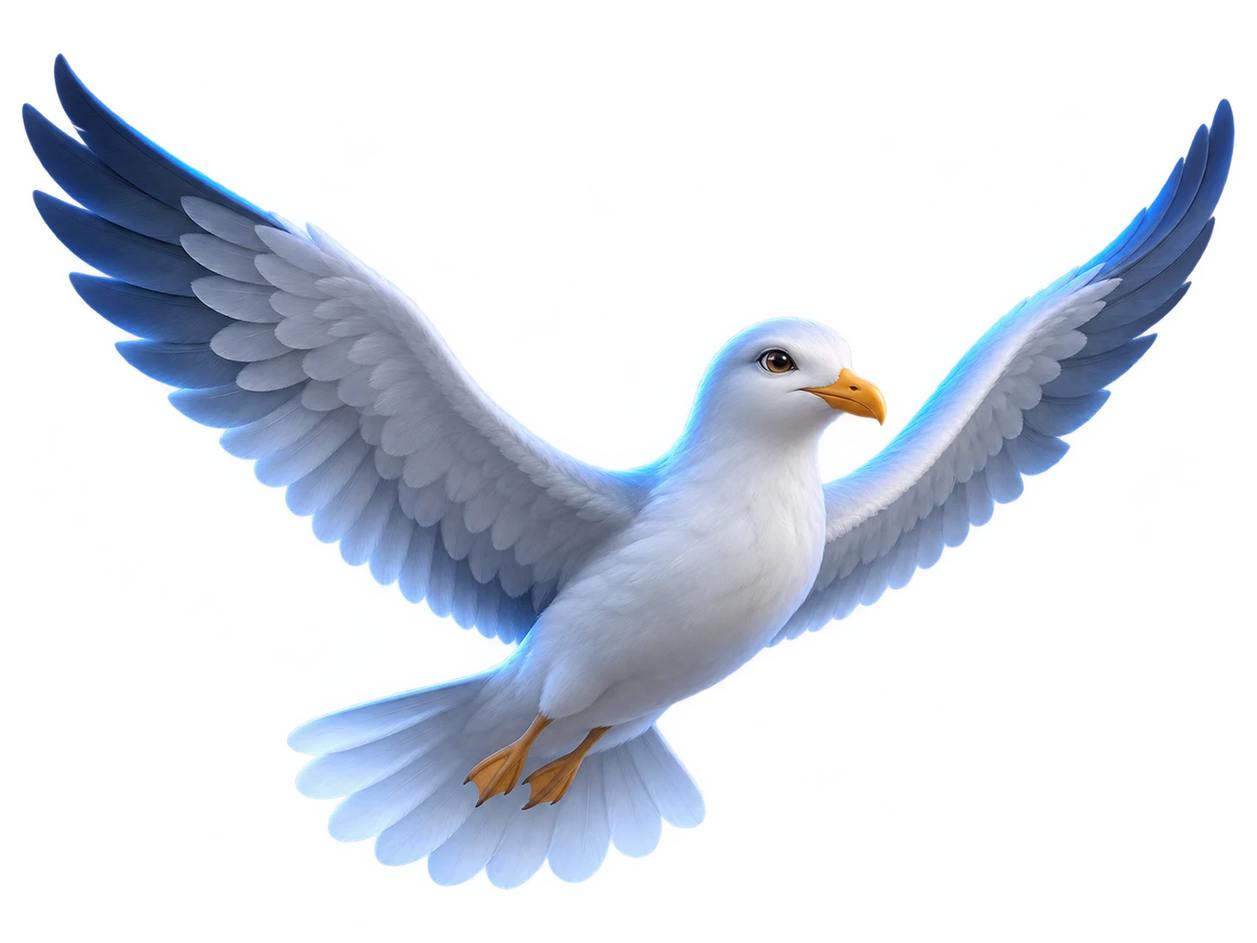
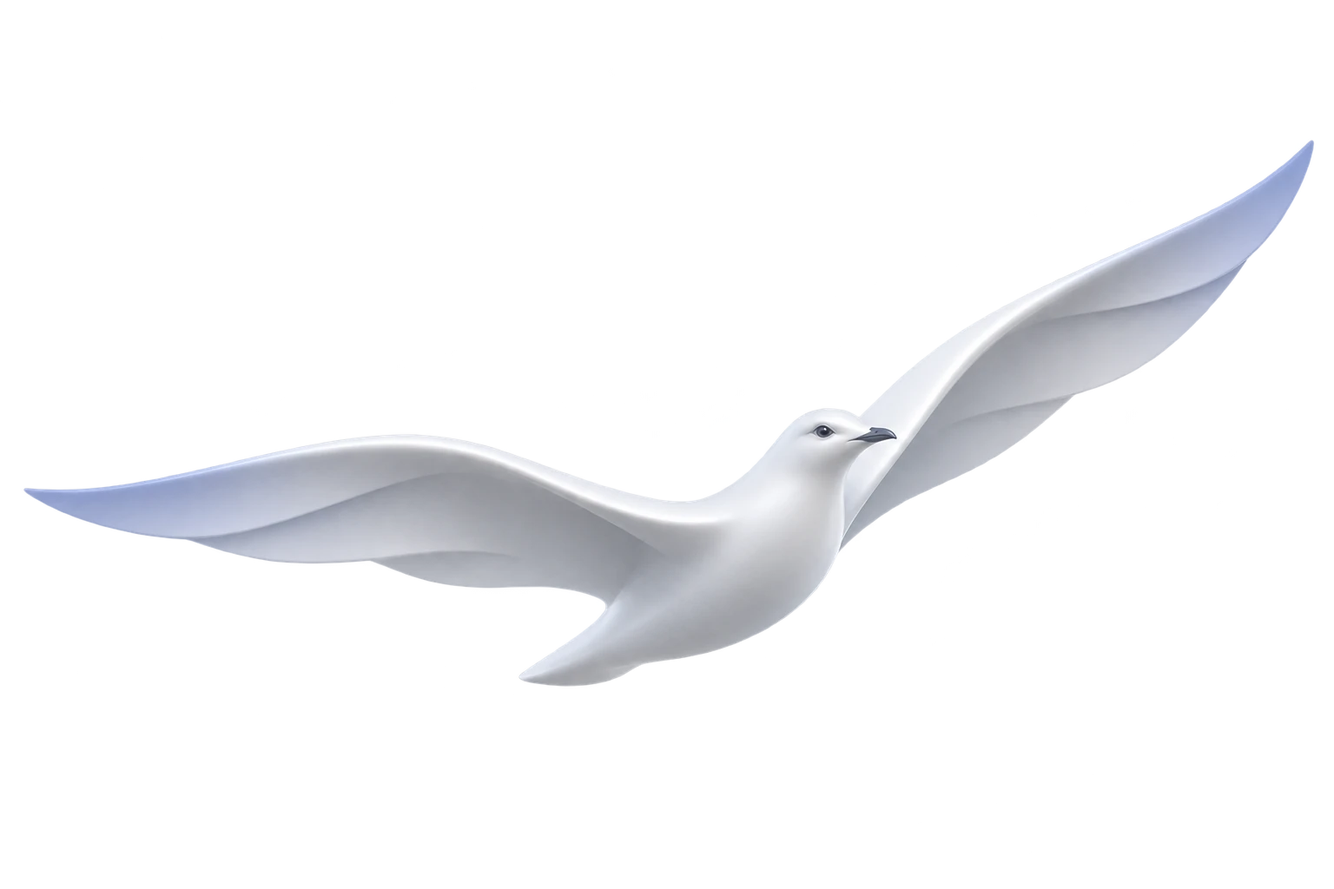
Correct Kaliningrad date and refine seagull and home case palette

Changed region(s): [[0.0, 0.0625, 0.9945, 0.9375]]

diff --git a/public/learning.html b/public/learning.html
@@ -11,8 +11,8 @@
   <link rel="stylesheet" href="./navigation.css?v=afisha-20261106">
   <link rel="stylesheet" href="./learning.css?v=transformation-20261111">
   <link rel="stylesheet" href="./catalog-theme.css?v=compact-cards-20261110">
-  <link rel="stylesheet" href="./dark.css?v=transformation-20261111">
-  <script type="module" src="./app.js?v=transformation-20261111"></script>
+  <link rel="stylesheet" href="./dark.css?v=palette-gull-20261111">
+  <script type="module" src="./app.js?v=palette-gull-20261111"></script>
 </head>
 <body data-page="learning">
   <header class="header" data-menu-open="false"><div class="container header-inner">
@@ -23,7 +23,7 @@
     </div>
     <nav class="main-navigation" id="site-navigation" aria-label="Основная навигация" aria-hidden="true" inert><a href="./index.html" class="nav-link" data-page="home">Главная</a><a href="./events.html" class="nav-link" data-page="events">Мероприятия</a><a href="./cases.html" class="nav-link" data-page="cases">Кейсы</a><a href="./partners.html" class="nav-link" data-page="partners">Партнёры</a><a href="./learning.html" class="nav-link active" data-page="learning" aria-current="page">Обучение CSM</a><a href="./index.html#about" class="nav-link" data-page="about">Об управлении</a></nav>
   </div></header>
-  <main id="main-content"><section class="catalog-hero" aria-labelledby="page-title"><svg class="catalog-curve" viewBox="0 -80 1440 520" preserveAspectRatio="xMidYMid slice" aria-hidden="true" focusable="false"><defs><path id="learning-curve-path" d="M-240 200C50-40 260 30 455 200S845 410 1110 180 1470 0 1740 180"/></defs><use href="#learning-curve-path" fill="none" stroke-width="46"/><text><textPath href="#learning-curve-path" startOffset="0%">ЛЮДИ · ТЕХНОЛОГИИ · ВОЗМОЖНОСТИ · ЦИФРОВОЙ СЕВЕРО-ЗАПАД · ЛЮДИ · ТЕХНОЛОГИИ · ВОЗМОЖНОСТИ · ЦИФРОВОЙ СЕВЕРО-ЗАПАД · ЛЮДИ · ТЕХНОЛОГИИ · ВОЗМОЖНОСТИ · ЦИФРОВОЙ СЕВЕРО-ЗАПАД · ЛЮДИ · ТЕХНОЛОГИИ · ВОЗМОЖНОСТИ · ЦИФРОВОЙ СЕВЕРО-ЗАПАД · ЛЮДИ · ТЕХНОЛОГИИ · ВОЗМОЖНОСТИ · ЦИФРОВОЙ СЕВЕРО-ЗАПАД · ЛЮДИ · ТЕХНОЛОГИИ · ВОЗМОЖНОСТИ · ЦИФРОВОЙ СЕВЕРО-ЗАПАД · ЛЮДИ · ТЕХНОЛОГИИ · ВОЗМОЖНОСТИ · ЦИФРОВОЙ СЕВЕРО-ЗАПАД · <animate attributeName="startOffset" from="0%" to="-25%" dur="50s" repeatCount="indefinite"/></textPath></text></svg><img class="seagull-section" src="./assets/seagull.webp" alt="" width="1440" height="1080" aria-hidden="true"><div class="page-heading container"><div><div class="breadcrumbs"><a href="./index.html">DTaaS Северо-Запад</a><span>/</span><span>Обучение CSM</span></div><h1 id="page-title">Обучение CSM</h1><p>Знания, которые превращают интерес к ИИ в измеримый результат клиента.</p></div></div></section>
+  <main id="main-content"><section class="catalog-hero" aria-labelledby="page-title"><svg class="catalog-curve" viewBox="0 -80 1440 520" preserveAspectRatio="xMidYMid slice" aria-hidden="true" focusable="false"><defs><path id="learning-curve-path" d="M-240 200C50-40 260 30 455 200S845 410 1110 180 1470 0 1740 180"/></defs><use href="#learning-curve-path" fill="none" stroke-width="46"/><text><textPath href="#learning-curve-path" startOffset="0%">ЛЮДИ · ТЕХНОЛОГИИ · ВОЗМОЖНОСТИ · ЦИФРОВОЙ СЕВЕРО-ЗАПАД · ЛЮДИ · ТЕХНОЛОГИИ · ВОЗМОЖНОСТИ · ЦИФРОВОЙ СЕВЕРО-ЗАПАД · ЛЮДИ · ТЕХНОЛОГИИ · ВОЗМОЖНОСТИ · ЦИФРОВОЙ СЕВЕРО-ЗАПАД · ЛЮДИ · ТЕХНОЛОГИИ · ВОЗМОЖНОСТИ · ЦИФРОВОЙ СЕВЕРО-ЗАПАД · ЛЮДИ · ТЕХНОЛОГИИ · ВОЗМОЖНОСТИ · ЦИФРОВОЙ СЕВЕРО-ЗАПАД · ЛЮДИ · ТЕХНОЛОГИИ · ВОЗМОЖНОСТИ · ЦИФРОВОЙ СЕВЕРО-ЗАПАД · ЛЮДИ · ТЕХНОЛОГИИ · ВОЗМОЖНОСТИ · ЦИФРОВОЙ СЕВЕРО-ЗАПАД · <animate attributeName="startOffset" from="0%" to="-25%" dur="50s" repeatCount="indefinite"/></textPath></text></svg><img class="seagull-section" src="./assets/seagull.webp?v=flight-20261111" alt="" width="1536" height="1024" aria-hidden="true"><div class="page-heading container"><div><div class="breadcrumbs"><a href="./index.html">DTaaS Северо-Запад</a><span>/</span><span>Обучение CSM</span></div><h1 id="page-title">Обучение CSM</h1><p>Знания, которые превращают интерес к ИИ в измеримый результат клиента.</p></div></div></section>
     <div class="learning-content container" id="content">
       <section class="checkup-shell" id="checkup" aria-labelledby="checkup-title"><div id="checkup-view"></div></section>
       <section class="learning-route" id="learning-route" aria-labelledby="route-title" hidden><span class="eyebrow">ПЕРСОНАЛЬНЫЙ МАРШРУТ</span><h2 id="route-title">Что изучить дальше</h2><p>Рекомендуем начать с компетенций, которым нужно больше практики. Модули помогут подготовить следующий разговор с клиентом.</p><div class="recommended-courses" id="recommended-courses"></div></section>
@@ -31,7 +31,7 @@
       <section class="fot-training" aria-labelledby="fot-title"><div><span class="learning-tag">ПРАКТИКА РАБОТЫ С КЛИЕНТОМ</span><h3 id="fot-title">Обучение по ФОТ</h3><p>Бизнес-кейсы в три этапа для ККСБ, РГС и ММБ, учебные материалы и практика по выбранному сегменту.</p></div><a class="primary-button" id="fot-training-link" href="https://fot-manager-training.github.io/fot-manager-training/?choose-segment=1" target="_blank" rel="noopener noreferrer">Выбрать сегмент ↗</a></section>
     </div>
   </main>
-  <footer class="container footer"><img class="footer-seagull" src="./assets/seagull.webp" alt="" width="1440" height="1080" loading="lazy" aria-hidden="true"><a class="brand" href="./index.html" aria-label="Сбер · DTaaS — на главную"><img class="sber-logo" src="./assets/sber.png" alt="Сбер" width="140" height="48"><span class="brand-divider" aria-hidden="true"></span><span class="dtaas-wordmark" aria-hidden="true"><span class="dtaas-symbol"><img class="dtaas-logo" src="./assets/dtaas.png" alt="" width="142" height="48"></span><span>DTaaS</span></span></a><span>Территория цифровых возможностей</span><span>© 2026 DTaaS СЗБ</span><a href="#" class="back-top" aria-label="Наверх">↑</a></footer>
+  <footer class="container footer"><img class="footer-seagull" src="./assets/seagull.webp?v=flight-20261111" alt="" width="1536" height="1024" loading="lazy" aria-hidden="true"><a class="brand" href="./index.html" aria-label="Сбер · DTaaS — на главную"><img class="sber-logo" src="./assets/sber.png" alt="Сбер" width="140" height="48"><span class="brand-divider" aria-hidden="true"></span><span class="dtaas-wordmark" aria-hidden="true"><span class="dtaas-symbol"><img class="dtaas-logo" src="./assets/dtaas.png" alt="" width="142" height="48"></span><span>DTaaS</span></span></a><span>Территория цифровых возможностей</span><span>© 2026 DTaaS СЗБ</span><a href="#" class="back-top" aria-label="Наверх">↑</a></footer>
   <dialog id="lesson-dialog" aria-labelledby="lesson-title"><button class="dialog-close" id="lesson-close" aria-label="Закрыть">×</button><div id="lesson-body"></div></dialog>
   <dialog id="event-dialog" aria-labelledby="dialog-title"><button class="dialog-close" id="dialog-close" aria-label="Закрыть">×</button><div id="dialog-body"></div></dialog>
   <div id="toast" role="status" class="toast"></div>

diff --git a/public/partners.html b/public/partners.html
@@ -10,8 +10,8 @@
   <link rel="stylesheet" href="./site.css?v=events-20261110">
   <link rel="stylesheet" href="./navigation.css?v=afisha-20261106">
   <link rel="stylesheet" href="./catalog-theme.css?v=compact-cards-20261110">
-  <link rel="stylesheet" href="./dark.css?v=transformation-20261111">
-  <script type="module" src="./app.js?v=transformation-20261111"></script>
+  <link rel="stylesheet" href="./dark.css?v=palette-gull-20261111">
+  <script type="module" src="./app.js?v=palette-gull-20261111"></script>
 </head>
 <body data-page="partners">
   <header class="header" data-menu-open="false"><div class="container header-inner">
@@ -23,10 +23,10 @@
     <nav class="main-navigation" id="site-navigation" aria-label="Основная навигация" aria-hidden="true" inert><a href="./index.html" class="nav-link" data-page="home">Главная</a><a href="./events.html" class="nav-link" data-page="events">Мероприятия</a><a href="./cases.html" class="nav-link" data-page="cases">Кейсы</a><a href="./partners.html" class="nav-link active" data-page="partners" aria-current="page">Партнёры</a><a href="./learning.html" class="nav-link" data-page="learning">Обучение CSM</a><a href="./index.html#about" class="nav-link" data-page="about">Об управлении</a></nav>
   </div></header>
   <main id="main-content">
-    <section class="catalog-hero" aria-labelledby="page-title"><svg class="catalog-curve" viewBox="0 -80 1440 520" preserveAspectRatio="xMidYMid slice" aria-hidden="true" focusable="false"><defs><path id="partners-curve-path" d="M-240 150C50-30 270 60 470 230S865 390 1120 160 1470-10 1740 170"/></defs><use href="#partners-curve-path" fill="none" stroke-width="46"/><text><textPath href="#partners-curve-path" startOffset="0%">ЛЮДИ · ТЕХНОЛОГИИ · ВОЗМОЖНОСТИ · ЦИФРОВОЙ СЕВЕРО-ЗАПАД · ЛЮДИ · ТЕХНОЛОГИИ · ВОЗМОЖНОСТИ · ЦИФРОВОЙ СЕВЕРО-ЗАПАД · ЛЮДИ · ТЕХНОЛОГИИ · ВОЗМОЖНОСТИ · ЦИФРОВОЙ СЕВЕРО-ЗАПАД · ЛЮДИ · ТЕХНОЛОГИИ · ВОЗМОЖНОСТИ · ЦИФРОВОЙ СЕВЕРО-ЗАПАД · ЛЮДИ · ТЕХНОЛОГИИ · ВОЗМОЖНОСТИ · ЦИФРОВОЙ СЕВЕРО-ЗАПАД · ЛЮДИ · ТЕХНОЛОГИИ · ВОЗМОЖНОСТИ · ЦИФРОВОЙ СЕВЕРО-ЗАПАД · ЛЮДИ · ТЕХНОЛОГИИ · ВОЗМОЖНОСТИ · ЦИФРОВОЙ СЕВЕРО-ЗАПАД · <animate attributeName="startOffset" from="0%" to="-25%" dur="50s" repeatCount="indefinite"/></textPath></text></svg><img class="seagull-section" src="./assets/seagull.webp" alt="" width="1440" height="1080" aria-hidden="true"><div class="page-heading container"><div><div class="breadcrumbs"><a href="./index.html">DTaaS Северо-Запад</a><span>/</span><span>Партнёры</span></div><h1 id="page-title">Партнёры для ваших задач</h1><p>Вендоры и интеграторы. Найдите команду по технологии и компетенциям.</p></div></div></section>
+    <section class="catalog-hero" aria-labelledby="page-title"><svg class="catalog-curve" viewBox="0 -80 1440 520" preserveAspectRatio="xMidYMid slice" aria-hidden="true" focusable="false"><defs><path id="partners-curve-path" d="M-240 150C50-30 270 60 470 230S865 390 1120 160 1470-10 1740 170"/></defs><use href="#partners-curve-path" fill="none" stroke-width="46"/><text><textPath href="#partners-curve-path" startOffset="0%">ЛЮДИ · ТЕХНОЛОГИИ · ВОЗМОЖНОСТИ · ЦИФРОВОЙ СЕВЕРО-ЗАПАД · ЛЮДИ · ТЕХНОЛОГИИ · ВОЗМОЖНОСТИ · ЦИФРОВОЙ СЕВЕРО-ЗАПАД · ЛЮДИ · ТЕХНОЛОГИИ · ВОЗМОЖНОСТИ · ЦИФРОВОЙ СЕВЕРО-ЗАПАД · ЛЮДИ · ТЕХНОЛОГИИ · ВОЗМОЖНОСТИ · ЦИФРОВОЙ СЕВЕРО-ЗАПАД · ЛЮДИ · ТЕХНОЛОГИИ · ВОЗМОЖНОСТИ · ЦИФРОВОЙ СЕВЕРО-ЗАПАД · ЛЮДИ · ТЕХНОЛОГИИ · ВОЗМОЖНОСТИ · ЦИФРОВОЙ СЕВЕРО-ЗАПАД · ЛЮДИ · ТЕХНОЛОГИИ · ВОЗМОЖНОСТИ · ЦИФРОВОЙ СЕВЕРО-ЗАПАД · <animate attributeName="startOffset" from="0%" to="-25%" dur="50s" repeatCount="indefinite"/></textPath></text></svg><img class="seagull-section" src="./assets/seagull.webp?v=flight-20261111" alt="" width="1536" height="1024" aria-hidden="true"><div class="page-heading container"><div><div class="breadcrumbs"><a href="./index.html">DTaaS Северо-Запад</a><span>/</span><span>Партнёры</span></div><h1 id="page-title">Партнёры для ваших задач</h1><p>Вендоры и интеграторы. Найдите команду по технологии и компетенциям.</p></div></div></section>
     <section class="content-section container" id="content" aria-label="Каталог партнёры"><div id="partners-view"></div></section>
   </main>
-  <footer class="container footer"><img class="footer-seagull" src="./assets/seagull.webp" alt="" width="1440" height="1080" loading="lazy" aria-hidden="true"><a class="brand" href="./index.html" aria-label="Сбер · DTaaS — на главную"><img class="sber-logo" src="./assets/sber.png" alt="Сбер" width="140" height="48"><span class="brand-divider" aria-hidden="true"></span><span class="dtaas-wordmark" aria-hidden="true"><span class="dtaas-symbol"><img class="dtaas-logo" src="./assets/dtaas.png" alt="" width="142" height="48"></span><span>DTaaS</span></span></a><span>Территория цифровых возможностей</span><span>© 2026 DTaaS СЗБ</span><a href="#" class="back-top" aria-label="Наверх">↑</a></footer>
+  <footer class="container footer"><img class="footer-seagull" src="./assets/seagull.webp?v=flight-20261111" alt="" width="1536" height="1024" loading="lazy" aria-hidden="true"><a class="brand" href="./index.html" aria-label="Сбер · DTaaS — на главную"><img class="sber-logo" src="./assets/sber.png" alt="Сбер" width="140" height="48"><span class="brand-divider" aria-hidden="true"></span><span class="dtaas-wordmark" aria-hidden="true"><span class="dtaas-symbol"><img class="dtaas-logo" src="./assets/dtaas.png" alt="" width="142" height="48"></span><span>DTaaS</span></span></a><span>Территория цифровых возможностей</span><span>© 2026 DTaaS СЗБ</span><a href="#" class="back-top" aria-label="Наверх">↑</a></footer>
   <dialog id="event-dialog" aria-labelledby="dialog-title"><button class="dialog-close" id="dialog-close" aria-label="Закрыть">×</button><div id="dialog-body"></div></dialog>
   <div id="toast" role="status" class="toast"></div>
 </body>

diff --git a/public/cases.html b/public/cases.html
@@ -10,8 +10,8 @@
   <link rel="stylesheet" href="./site.css?v=events-20261110">
   <link rel="stylesheet" href="./navigation.css?v=afisha-20261106">
   <link rel="stylesheet" href="./catalog-theme.css?v=compact-cards-20261110">
-  <link rel="stylesheet" href="./dark.css?v=transformation-20261111">
-  <script type="module" src="./app.js?v=transformation-20261111"></script>
+  <link rel="stylesheet" href="./dark.css?v=palette-gull-20261111">
+  <script type="module" src="./app.js?v=palette-gull-20261111"></script>
 </head>
 <body data-page="cases">
   <header class="header" data-menu-open="false"><div class="container header-inner">
@@ -23,10 +23,10 @@
     <nav class="main-navigation" id="site-navigation" aria-label="Основная навигация" aria-hidden="true" inert><a href="./index.html" class="nav-link" data-page="home">Главная</a><a href="./events.html" class="nav-link" data-page="events">Мероприятия</a><a href="./cases.html" class="nav-link active" data-page="cases" aria-current="page">Кейсы</a><a href="./partners.html" class="nav-link" data-page="partners">Партнёры</a><a href="./learning.html" class="nav-link" data-page="learning">Обучение CSM</a><a href="./index.html#about" class="nav-link" data-page="about">Об управлении</a></nav>
   </div></header>
   <main id="main-content">
-    <section class="catalog-hero" aria-labelledby="page-title"><svg class="catalog-curve" viewBox="0 -80 1440 520" preserveAspectRatio="xMidYMid slice" aria-hidden="true" focusable="false"><defs><path id="cases-curve-path" d="M-240 200C50-40 260 30 455 200S845 410 1110 180 1470 0 1740 180"/></defs><use href="#cases-curve-path" fill="none" stroke-width="46"/><text><textPath href="#cases-curve-path" startOffset="0%">ЛЮДИ · ТЕХНОЛОГИИ · ВОЗМОЖНОСТИ · ЦИФРОВОЙ СЕВЕРО-ЗАПАД · ЛЮДИ · ТЕХНОЛОГИИ · ВОЗМОЖНОСТИ · ЦИФРОВОЙ СЕВЕРО-ЗАПАД · ЛЮДИ · ТЕХНОЛОГИИ · ВОЗМОЖНОСТИ · ЦИФРОВОЙ СЕВЕРО-ЗАПАД · ЛЮДИ · ТЕХНОЛОГИИ · ВОЗМОЖНОСТИ · ЦИФРОВОЙ СЕВЕРО-ЗАПАД · ЛЮДИ · ТЕХНОЛОГИИ · ВОЗМОЖНОСТИ · ЦИФРОВОЙ СЕВЕРО-ЗАПАД · ЛЮДИ · ТЕХНОЛОГИИ · ВОЗМОЖНОСТИ · ЦИФРОВОЙ СЕВЕРО-ЗАПАД · ЛЮДИ · ТЕХНОЛОГИИ · ВОЗМОЖНОСТИ · ЦИФРОВОЙ СЕВЕРО-ЗАПАД · <animate attributeName="startOffset" from="0%" to="-25%" dur="50s" repeatCount="indefinite"/></textPath></text></svg><img class="seagull-section" src="./assets/seagull.webp" alt="" width="1440" height="1080" aria-hidden="true"><div class="page-heading container"><div><div class="breadcrumbs"><a href="./index.html">DTaaS Северо-Запад</a><span>/</span><span>Кейсы</span></div><h1 id="page-title">Кейсы цифровой трансформации</h1><p>Реальные задачи бизнеса, технологии и опыт команд Северо-Запада.</p></div></div></section>
+    <section class="catalog-hero" aria-labelledby="page-title"><svg class="catalog-curve" viewBox="0 -80 1440 520" preserveAspectRatio="xMidYMid slice" aria-hidden="true" focusable="false"><defs><path id="cases-curve-path" d="M-240 200C50-40 260 30 455 200S845 410 1110 180 1470 0 1740 180"/></defs><use href="#cases-curve-path" fill="none" stroke-width="46"/><text><textPath href="#cases-curve-path" startOffset="0%">ЛЮДИ · ТЕХНОЛОГИИ · ВОЗМОЖНОСТИ · ЦИФРОВОЙ СЕВЕРО-ЗАПАД · ЛЮДИ · ТЕХНОЛОГИИ · ВОЗМОЖНОСТИ · ЦИФРОВОЙ СЕВЕРО-ЗАПАД · ЛЮДИ · ТЕХНОЛОГИИ · ВОЗМОЖНОСТИ · ЦИФРОВОЙ СЕВЕРО-ЗАПАД · ЛЮДИ · ТЕХНОЛОГИИ · ВОЗМОЖНОСТИ · ЦИФРОВОЙ СЕВЕРО-ЗАПАД · ЛЮДИ · ТЕХНОЛОГИИ · ВОЗМОЖНОСТИ · ЦИФРОВОЙ СЕВЕРО-ЗАПАД · ЛЮДИ · ТЕХНОЛОГИИ · ВОЗМОЖНОСТИ · ЦИФРОВОЙ СЕВЕРО-ЗАПАД · ЛЮДИ · ТЕХНОЛОГИИ · ВОЗМОЖНОСТИ · ЦИФРОВОЙ СЕВЕРО-ЗАПАД · <animate attributeName="startOffset" from="0%" to="-25%" dur="50s" repeatCount="indefinite"/></textPath></text></svg><img class="seagull-section" src="./assets/seagull.webp?v=flight-20261111" alt="" width="1536" height="1024" aria-hidden="true"><div class="page-heading container"><div><div class="breadcrumbs"><a href="./index.html">DTaaS Северо-Запад</a><span>/</span><span>Кейсы</span></div><h1 id="page-title">Кейсы цифровой трансформации</h1><p>Реальные задачи бизнеса, технологии и опыт команд Северо-Запада.</p></div></div></section>
     <section class="content-section container" id="content" aria-label="Каталог кейсы"><div id="cases-view"></div></section>
   </main>
-  <footer class="container footer"><img class="footer-seagull" src="./assets/seagull.webp" alt="" width="1440" height="1080" loading="lazy" aria-hidden="true"><a class="brand" href="./index.html" aria-label="Сбер · DTaaS — на главную"><img class="sber-logo" src="./assets/sber.png" alt="Сбер" width="140" height="48"><span class="brand-divider" aria-hidden="true"></span><span class="dtaas-wordmark" aria-hidden="true"><span class="dtaas-symbol"><img class="dtaas-logo" src="./assets/dtaas.png" alt="" width="142" height="48"></span><span>DTaaS</span></span></a><span>Территория цифровых возможностей</span><span>© 2026 DTaaS СЗБ</span><a href="#" class="back-top" aria-label="Наверх">↑</a></footer>
+  <footer class="container footer"><img class="footer-seagull" src="./assets/seagull.webp?v=flight-20261111" alt="" width="1536" height="1024" loading="lazy" aria-hidden="true"><a class="brand" href="./index.html" aria-label="Сбер · DTaaS — на главную"><img class="sber-logo" src="./assets/sber.png" alt="Сбер" width="140" height="48"><span class="brand-divider" aria-hidden="true"></span><span class="dtaas-wordmark" aria-hidden="true"><span class="dtaas-symbol"><img class="dtaas-logo" src="./assets/dtaas.png" alt="" width="142" height="48"></span><span>DTaaS</span></span></a><span>Территория цифровых возможностей</span><span>© 2026 DTaaS СЗБ</span><a href="#" class="back-top" aria-label="Наверх">↑</a></footer>
   <dialog id="event-dialog" aria-labelledby="dialog-title"><button class="dialog-close" id="dialog-close" aria-label="Закрыть">×</button><div id="dialog-body"></div></dialog>
   <div id="toast" role="status" class="toast"></div>
 </body>

diff --git a/public/index.html b/public/index.html
@@ -10,8 +10,8 @@
   <link rel="stylesheet" href="./site.css?v=events-20261110">
   <link rel="stylesheet" href="./home.css?v=hero-clean-20261110">
   <link rel="stylesheet" href="./navigation.css?v=afisha-20261106">
-  <link rel="stylesheet" href="./dark.css?v=transformation-20261111">
-  <script type="module" src="./app.js?v=transformation-20261111"></script>
+  <link rel="stylesheet" href="./dark.css?v=palette-gull-20261111">
+  <script type="module" src="./app.js?v=palette-gull-20261111"></script>
 </head>
 <body data-page="home">
   <header class="header" data-menu-open="false"><div class="container header-inner">
@@ -28,7 +28,7 @@
         <span class="hero-label">ПЛАТФОРМА DTaaS · СЕВЕРО-ЗАПАД</span>
         <svg class="hero-wave" viewBox="0 -80 1440 520" preserveAspectRatio="xMidYMid meet" aria-hidden="true"><defs><path id="wave-path" d="M-240 200C50-40 260 30 455 200S845 410 1110 180 1470 0 1740 180"/></defs><use href="#wave-path" fill="none" stroke="#accbff" stroke-width="46"/><text><textPath href="#wave-path" startOffset="0%">ЛЮДИ · ТЕХНОЛОГИИ · ВОЗМОЖНОСТИ · ЦИФРОВОЙ СЕВЕРО-ЗАПАД · ЛЮДИ · ТЕХНОЛОГИИ · ВОЗМОЖНОСТИ · ЦИФРОВОЙ СЕВЕРО-ЗАПАД · ЛЮДИ · ТЕХНОЛОГИИ · ВОЗМОЖНОСТИ · ЦИФРОВОЙ СЕВЕРО-ЗАПАД · ЛЮДИ · ТЕХНОЛОГИИ · ВОЗМОЖНОСТИ · ЦИФРОВОЙ СЕВЕРО-ЗАПАД · ЛЮДИ · ТЕХНОЛОГИИ · ВОЗМОЖНОСТИ · ЦИФРОВОЙ СЕВЕРО-ЗАПАД · ЛЮДИ · ТЕХНОЛОГИИ · ВОЗМОЖНОСТИ · ЦИФРОВОЙ СЕВЕРО-ЗАПАД · <animate attributeName="startOffset" from="0%" to="-25%" dur="50s" repeatCount="indefinite"/></textPath></text></svg>
         <h1>скажите «да»<span>цифровым возможностям</span></h1>
-        <img class="seagull-hero" src="./assets/seagull.webp" alt="Чайка" width="1440" height="1080">
+        <img class="seagull-hero" src="./assets/seagull.webp?v=flight-20261111" alt="Чайка в полёте" width="1536" height="1024">
         <p class="hero-lead">Встречайтесь с людьми, находите решения<br>и создавайте будущее своего бизнеса.</p>
         <a class="primary-button" href="./events.html" id="hero-cta">Найти своё событие <span>↗</span></a>
       </div>
@@ -41,7 +41,7 @@
     <section class="case-showcase" aria-labelledby="practice-title"><div class="container"><div class="practice-heading"><h2 id="practice-title">кейсы</h2><a href="./cases.html">Весь кейсбук <span>↗</span></a></div><div class="practice-tabs" id="practice-tabs" aria-label="Направление кейсов"></div><div class="practice-accordion" id="practice-accordion"></div><p class="practice-count" id="practice-count" aria-live="polite"></p></div></section>
     <section class="partner-showcase" aria-labelledby="partner-showcase-title"><div class="partner-showcase-cap"><span>Наше преимущество — команды</span><h2 id="partner-showcase-title">партнёры</h2></div><div class="partner-strip" id="partner-strip"></div><div class="partner-strip-footer container"><a href="./partners.html">Все партнёры <span>↗</span></a><div><button id="partner-strip-prev" aria-label="Предыдущие партнёры">←</button><button id="partner-strip-next" aria-label="Следующие партнёры">→</button></div></div></section>
   </main>
-  <footer class="container footer"><img class="footer-seagull" src="./assets/seagull.webp" alt="" width="1440" height="1080" loading="lazy" aria-hidden="true"><a class="brand" href="./index.html" aria-label="Сбер · DTaaS — на главную"><img class="sber-logo" src="./assets/sber.png" alt="Сбер" width="140" height="48"><span class="brand-divider" aria-hidden="true"></span><span class="dtaas-wordmark" aria-hidden="true"><span class="dtaas-symbol"><img class="dtaas-logo" src="./assets/dtaas.png" alt="" width="142" height="48"></span><span>DTaaS</span></span></a><span>Территория цифровых возможностей</span><span>© 2026 DTaaS СЗБ</span><a href="#" class="back-top" aria-label="Наверх">↑</a></footer>
+  <footer class="container footer"><img class="footer-seagull" src="./assets/seagull.webp?v=flight-20261111" alt="" width="1536" height="1024" loading="lazy" aria-hidden="true"><a class="brand" href="./index.html" aria-label="Сбер · DTaaS — на главную"><img class="sber-logo" src="./assets/sber.png" alt="Сбер" width="140" height="48"><span class="brand-divider" aria-hidden="true"></span><span class="dtaas-wordmark" aria-hidden="true"><span class="dtaas-symbol"><img class="dtaas-logo" src="./assets/dtaas.png" alt="" width="142" height="48"></span><span>DTaaS</span></span></a><span>Территория цифровых возможностей</span><span>© 2026 DTaaS СЗБ</span><a href="#" class="back-top" aria-label="Наверх">↑</a></footer>
   <dialog id="event-dialog" aria-labelledby="dialog-title"><button class="dialog-close" id="dialog-close" aria-label="Закрыть">×</button><div id="dialog-body"></div></dialog>
   <div id="toast" role="status" class="toast"></div>
 </body>

diff --git a/public/events.html b/public/events.html
@@ -10,8 +10,8 @@
   <link rel="stylesheet" href="./site.css?v=events-20261110">
   <link rel="stylesheet" href="./navigation.css?v=afisha-20261106">
   <link rel="stylesheet" href="./afisha.css?v=afisha-20261106">
-  <link rel="stylesheet" href="./dark.css?v=transformation-20261111">
-  <script type="module" src="./app.js?v=transformation-20261111"></script>
+  <link rel="stylesheet" href="./dark.css?v=palette-gull-20261111">
+  <script type="module" src="./app.js?v=palette-gull-20261111"></script>
 </head>
 <body data-page="events">
   <header class="header" data-menu-open="false"><div class="container header-inner">
@@ -25,7 +25,7 @@
   <main id="main-content" class="afisha-page">
     <div id="events-view">
       <section class="afisha-search container" aria-labelledby="page-title">
-        <h1 id="page-title">Афиша<img class="seagull-afisha" src="./assets/seagull.webp" alt="" width="1440" height="1080" aria-hidden="true"></h1>
+        <h1 id="page-title">Афиша<img class="seagull-afisha" src="./assets/seagull.webp?v=flight-20261111" alt="" width="1536" height="1024" aria-hidden="true"></h1>
         <label class="search-field afisha-search-field"><svg viewBox="0 0 24 24" aria-hidden="true"><circle cx="10.5" cy="10.5" r="6.5"/><path d="m16 16 5 5"/></svg><input id="search" type="search" placeholder="События, города и темы" aria-label="Поиск событий"></label>
         <label class="select-field afisha-region"><span aria-hidden="true"><svg viewBox="0 0 24 24"><path d="M20 10c0 6-8 12-8 12S4 16 4 10a8 8 0 1 1 16 0Z"/><circle cx="12" cy="10" r="3"/></svg></span><select id="region" aria-label="Регион"><option value="all">Все города</option><option>Архангельск</option><option>Калининград</option><option>Мурманск</option><option>Ленинградская область</option><option>Санкт-Петербург</option><option value="unknown">Место уточняется</option></select></label>
       </section>
@@ -42,7 +42,7 @@
       <section class="content-section container" id="content" aria-labelledby="section-title"><div class="section-top"><h2 id="section-title">Все мероприятия</h2></div><span id="results-count" class="visually-hidden" role="status"></span><div class="events-grid" id="events-grid"></div><div class="calendar" id="calendar" hidden></div><div class="empty-state" id="empty-events" hidden><span>⌕</span><h3>На эту дату событий пока нет</h3><p>Выберите другую дату или измените фильтры.</p><button class="primary-button" id="empty-reset">Все события ↗</button></div></section>
     </div>
   </main>
-  <footer class="container footer"><img class="footer-seagull" src="./assets/seagull.webp" alt="" width="1440" height="1080" loading="lazy" aria-hidden="true"><a class="brand" href="./index.html" aria-label="Сбер · DTaaS — на главную"><img class="sber-logo" src="./assets/sber.png" alt="Сбер" width="140" height="48"><span class="brand-divider" aria-hidden="true"></span><span class="dtaas-wordmark" aria-hidden="true"><span class="dtaas-symbol"><img class="dtaas-logo" src="./assets/dtaas.png" alt="" width="142" height="48"></span><span>DTaaS</span></span></a><span>Территория цифровых возможностей</span><span>© 2026 DTaaS СЗБ</span><a href="#" class="back-top" aria-label="Наверх">↑</a></footer>
+  <footer class="container footer"><img class="footer-seagull" src="./assets/seagull.webp?v=flight-20261111" alt="" width="1536" height="1024" loading="lazy" aria-hidden="true"><a class="brand" href="./index.html" aria-label="Сбер · DTaaS — на главную"><img class="sber-logo" src="./assets/sber.png" alt="Сбер" width="140" height="48"><span class="brand-divider" aria-hidden="true"></span><span class="dtaas-wordmark" aria-hidden="true"><span class="dtaas-symbol"><img class="dtaas-logo" src="./assets/dtaas.png" alt="" width="142" height="48"></span><span>DTaaS</span></span></a><span>Территория цифровых возможностей</span><span>© 2026 DTaaS СЗБ</span><a href="#" class="back-top" aria-label="Наверх">↑</a></footer>
   <dialog id="event-dialog" aria-labelledby="dialog-title"><button class="dialog-close" id="dialog-close" aria-label="Закрыть">×</button><div id="dialog-body"></div></dialog>
   <div id="toast" role="status" class="toast"></div>
 </body>

diff --git a/public/dark.css b/public/dark.css
@@ -1,4 +1,4 @@
-:root{color-scheme:dark;--page:#0b111d;--ink:#edf2fc;--muted:#a2afc4;--accent:#91b2ff;--accent-hover:#bbd0ff;--accent-soft:#1a2b48;--surface:#151f30;--line:#2b384e;background:var(--page);color:var(--ink)}
+:root{color-scheme:dark;--page:#0b111d;--partner-heading:#94b7ff;--ink:#edf2fc;--muted:#a2afc4;--accent:#91b2ff;--accent-hover:#bbd0ff;--accent-soft:#1a2b48;--surface:#151f30;--line:#2b384e;background:var(--page);color:var(--ink)}
 body{background:var(--page);color:var(--ink)}
 .header .brand{filter:none}
 .dtaas-wordmark{display:inline-flex;align-items:center;gap:6px;font-size:28px;line-height:1;font-weight:700;letter-spacing:-.6px;color:#f0f3fa;flex-shrink:0}
@@ -37,11 +37,11 @@ body:is([data-page=cases],[data-page=partners],[data-page=learning]) main{paddin
 .about-services article>span{font-size:11px;color:var(--accent)}.about-services h3{font-size:21px;line-height:1.3;margin:18px 0 10px}.about-services p{font-size:12px;color:var(--muted);line-height:1.8;margin:0}
 .case-showcase{background:linear-gradient(180deg,var(--page) 0,#14213a var(--section-fade),#14213a calc(100% - var(--section-fade)),var(--page) 100%)}
 .practice-heading>a,.practice-tabs button{color:#bfd2f5;border-color:#3b5378}.practice-tabs button[aria-pressed=true]{background:#315ebc;color:#fff}.practice-tabs button:hover:not([aria-pressed=true]){background:#263d61}
-.accordion-item{background:#203658;--accordion-ink:#e1ebff;--accordion-muted:#a7bedf;--accordion-accent:#a6c5ff}
-.accordion-tone-1{background:#243d62}.accordion-tone-2{background:#29466b}.accordion-tone-3{background:#223e65}.accordion-tone-4{background:#1c304d}.accordion-tone-5{background:#14243b}
-.accordion-trigger>b{background:#ffffff17;color:#bad2f4}.accordion-copy>a>span{background:#ffffff17}
+.accordion-item{background:#b4ccff;--accordion-ink:#11213d;--accordion-muted:#142743;--accordion-accent:#193559}
+.accordion-tone-1{background:#a4c2ff}.accordion-tone-2{background:var(--partner-heading)}.accordion-tone-3{background:#84acf3}.accordion-tone-4{background:#749fe7}.accordion-tone-5{background:#6492db;--accordion-ink:#11213d;--accordion-muted:#142743;--accordion-accent:#193559}
+.accordion-trigger>b{background:#ffffff70;color:#203653}.accordion-copy>a>span{background:#ffffff70}
 .partner-showcase{background:var(--page)}.partner-showcase-cap{background:linear-gradient(180deg,#1b2e4d 0,#1b2e4d 35%,var(--page) 100%)}
-.partner-showcase-cap>span{color:#adc4e9}.partner-showcase-cap h2{color:#94b7ff}.partner-profile{background:#15243a;border-color:#2c3c55}.partner-profile h3{color:#cfddf3}.partner-profile>p{color:#a9bddb}.profile-avatar{background:#243958;border-color:#6883ae55}.profile-footer>span{background:#233957;color:#c4d8f6}.profile-footer>b{background:#3468e5}
+.partner-showcase-cap>span{color:#adc4e9}.partner-showcase-cap h2{color:var(--partner-heading)}.partner-profile{background:#15243a;border-color:#2c3c55}.partner-profile h3{color:#cfddf3}.partner-profile>p{color:#a9bddb}.profile-avatar{background:#243958;border-color:#6883ae55}.profile-footer>span{background:#233957;color:#c4d8f6}.profile-footer>b{background:#3468e5}
 .partner-strip-footer>a{color:#b5cbf1}.partner-strip-footer button{color:#a9c2ec;border-color:#3b5277}
 .case-card,.partner-card{background:#131e2e;border-color:#293a52}.case-card:hover,.partner-card:hover{box-shadow:0 15px 30px #03081366;border-color:#466491}
 .case-cover,.partner-cover,.event-poster{background:#1a2941}.case-cover img,.partner-cover img,.event-poster .event-cover{filter:brightness(.88) saturate(.9)}

diff --git a/public/events-ui.js b/public/events-ui.js
@@ -1,6 +1,6 @@
-import {events,filterEvents,calendarText,eventYear,eventMonthBounds} from './data.js?v=transformation-20261111';
+import {events,filterEvents,calendarText,eventYear,eventMonthBounds} from './data.js?v=kaliningrad-20261111';
 import {eventImages} from './media.js?v=transformation-20261111';
-import {initAfisha} from './afisha.js?v=transformation-20261111';
+import {initAfisha} from './afisha.js?v=kaliningrad-20261111';
 const $=id=>document.getElementById(id);
 const escape=value=>String(value??'').replace(/[&<>"']/g,c=>({'&':'&amp;','<':'&lt;','>':'&gt;','"':'&quot;',"'":'&#39;'}[c]));
 const heart=()=>`<svg viewBox="0 0 24 24" aria-hidden="true" focusable="false"><path d="M20.8 4.6a5.5 5.5 0 0 0-7.8 0L12 5.7l-1.1-1.1a5.5 5.5 0 0 0-7.8 7.8L12 21l8.8-8.6a5.5 5.5 0 0 0 0-7.8Z"/></svg>`;

diff --git a/public/app.js b/public/app.js
@@ -17,10 +17,10 @@ window.addEventListener('storage',updateSavedCount);
 if(!migrateLegacyRoute()){
  if(page==='home'){
   $('saved-button').onclick=()=>{location.href='./events.html?saved=1';};
-  const {initHome}=await import('./home.js?v=transformation-20261111');initHome({iconize});
+  const {initHome}=await import('./home.js?v=palette-gull-20261111');initHome({iconize});
   window.addEventListener('hashchange',migrateLegacyRoute);
  }else if(page==='events'){
-  const {initEvents,routeEvent}=await import('./events-ui.js?v=transformation-20261111');
+  const {initEvents,routeEvent}=await import('./events-ui.js?v=kaliningrad-20261111');
   initEvents({iconize,notify});routeEvent();window.addEventListener('hashchange',()=>{if(!migrateLegacyRoute())routeEvent();});
 
  }else if(page==='learning'){

diff --git a/public/data.js b/public/data.js
@@ -7,9 +7,9 @@ export const events = [
     "city": "Калининград",
     "category": "digital",
     "type": "Цифровой день",
-    "start": "2026-11-16",
-    "end": "2026-11-16",
-    "date": "16 ноября",
+    "start": "2026-11-26",
+    "end": "2026-11-26",
+    "date": "26 ноября",
     "summary": "Технологии и новые возможности для бизнеса региона.",
     "background": "#dfd0f7",
     "color": "#28232f",

diff --git a/public/afisha.js b/public/afisha.js
@@ -1,4 +1,4 @@
-import {eventYear,eventMonthBounds} from './data.js?v=transformation-20261111';
+import {eventYear,eventMonthBounds} from './data.js?v=kaliningrad-20261111';
 const $=id=>document.getElementById(id);
 const safe=value=>String(value).replace(/[&<>"']/g,c=>({'&':'&amp;','<':'&lt;','>':'&gt;','"':'&quot;',"'":'&#39;'}[c]));
 

diff --git a/public/home.js b/public/home.js
@@ -1,4 +1,4 @@
-import {events,filterEvents} from './data.js?v=transformation-20261111';
+import {events,filterEvents} from './data.js?v=kaliningrad-20261111';
 import {initShowcases,renderEventRail} from './showcase.js?v=transformation-20261111';
 export function initHome({iconize}){
  initShowcases({iconize});renderEventRail(events);

diff --git a/README.md b/README.md
@@ -17,7 +17,7 @@ GitHub Pages публикует папку `public` после push в `main`: w
 
 ## Интерфейс
 
-Общая палитра интерфейса: тёмный графит, глубокий синий и светлые голубые акценты. Финальные цвета задаёт `public/dark.css`. Сгенерированная серебристая чайка (`assets/seagull.webp`) размещена на главной, в заголовках разделов и в подвале; её лёгкое движение учитывает reduced motion. Начертания SB Sans Display 300/400/700 предоставлены пользователем и подключены локально. Основной стиль — `public/site.css`; старые `styles.css` и `theme.css` не подключаются.
+Общая палитра интерфейса: тёмный графит, глубокий синий и светлые голубые акценты. Финальные цвета задаёт `public/dark.css`. Шесть превью кейсов на главной используют тональную палитру цвета заголовка «Партнёры» (#94b7ff) с контрастным тёмным текстом. Лаконичная сгенерированная серебристая чайка в полёте (`assets/seagull.webp`) размещена на главной, в заголовках разделов и в подвале; её лёгкое движение учитывает reduced motion. Начертания SB Sans Display 300/400/700 предоставлены пользователем и подключены локально. Основной стиль — `public/site.css`; старые `styles.css` и `theme.css` не подключаются.
 
 Шапка закреплена на всех страницах: логотипы Сбера и DTaaS слева, «Мои события» и «Меню» справа. У неё прозрачный фон без цветной панели и размытия. Меню ведёт на главную, мероприятия, кейсы, партнёров, обучение CSM и блок «Об управлении». Блок описывает управление по ИИ-трансформации и технологическому развитию клиентов и DTaaS: от задачи и пилота до измеримого результата. Меню раскрывается отдельными овальными ссылками по референсу social-project c9418df, используя общую палитру сайта. Реализация — `navigation.js` и `navigation.css`. Поддержаны Escape, закрытие вне меню, клавиатура, inert и reduced motion.
 
@@ -39,7 +39,7 @@ GitHub Pages публикует папку `public` после push в `main`: w
 
 Каталог партнёров дополнен 9 ноября 2026 года по структурированным данным указанного пользователем сайта (`#partners`). Все 68 компаний сопоставлены по ИНН, а четыре записи без ИНН — по названию. ID и порядок сохранены. Добавлены 64 сайта и 60 контактных лиц (60 email, 59 телефонов), отрасли для 61 компании, полные роли, продукты, компетенции и сведения об источнике с номерами строк реестра. В карточках доступны контакты и сайт партнёра; подписи реестра, номера строк и ссылки на сайт-источник скрыты из интерфейса; поиск учитывает отрасли, продукты и контакты, фильтр типов — также разработчиков и консультантов. Значение «Северо-Западный банк» означает территориальный банк по реестру, а не географию услуг. Служебные пометки «контакт в почте» не представлены как контакты. Неизвестные сведения и статус Giga CoWork не выдумываются; исходный ИНН РАУ ИТ сохранён с пометкой об уточнении.
 
-События заданы пользователем в `data.js`. Калининград исправлен на 16 ноября 2026, Мурманск — на 19 ноября. Из презентации «Конференция Мурманск.pptx» внесены адрес (ул. Воровского, 5/23, 2-й этаж, зал «Море»), заявленное время 13:00–16:10, сбор с 12:45, шесть пунктов программы и четыре спикера. Указан предоставленный сайт murmansk-digitalday.ru с пометкой, что страница готовится; для него сгенерирован и проверен QR-код. Все события с известным сайтом показывают ссылку и кнопку QR в превью, а в подробностях — сам QR и ссылку. Корректные ID событий и избранное сохранены. Королевский акселератор — Санкт-Петербург, 10 декабря. Для исходного задания принят сезон 2026. Из PDF добавлены бизнес-ужин «От пилотов к результату» 2 декабря 2026 года (Юсуповский дворец, 17:00–23:30) и Digital Strategy smart 28–31 мая 2026 года (Гранд Отель Европа, 590 000 ₽). В подробностях доступны программа, условия, спикеры/контакт и PDF. Два документа бизнес-ужина объединены в одно событие. Год DSS сохранён по документу; мероприятие не перенесено на 2027 год. Календарь поддерживает май–декабрь; экспорт ужина содержит точное время в UTC с учётом UTC+3 Москвы, многодневные события — исключающую дату окончания. Техническая подпись .ics удалена; избранное на обложках использует SVG внутри кружка. QR-код Архангельска скопирован без изменений и проверен: https://arhangelsk-digitalday.ru. Архангельск добавлен отдельной карточкой с сайтом и QR, без выдуманной даты: он доступен в общей афише, поиске и фильтре города, но исключён из отбора по дню/месяцу и календаря до подтверждения даты. Кнопка экспорта календаря для него не показывается. Чтение сайта ожидает применения сетевого разрешения; подробности программы не перенесены.
+События заданы пользователем в `data.js`. Калининград исправлен на 26 ноября 2026, Мурманск — на 19 ноября. Из презентации «Конференция Мурманск.pptx» внесены адрес (ул. Воровского, 5/23, 2-й этаж, зал «Море»), заявленное время 13:00–16:10, сбор с 12:45, шесть пунктов программы и четыре спикера. Указан предоставленный сайт murmansk-digitalday.ru с пометкой, что страница готовится; для него сгенерирован и проверен QR-код. Все события с известным сайтом показывают ссылку и кнопку QR в превью, а в подробностях — сам QR и ссылку. Корректные ID событий и избранное сохранены. Королевский акселератор — Санкт-Петербург, 10 декабря. Для исходного задания принят сезон 2026. Из PDF добавлены бизнес-ужин «От пилотов к результату» 2 декабря 2026 года (Юсуповский дворец, 17:00–23:30) и Digital Strategy smart 28–31 мая 2026 года (Гранд Отель Европа, 590 000 ₽). В подробностях доступны программа, условия, спикеры/контакт и PDF. Два документа бизнес-ужина объединены в одно событие. Год DSS сохранён по документу; мероприятие не перенесено на 2027 год. Календарь поддерживает май–декабрь; экспорт ужина содержит точное время в UTC с учётом UTC+3 Москвы, многодневные события — исключающую дату окончания. Техническая подпись .ics удалена; избранное на обложках использует SVG внутри кружка. QR-код Архангельска скопирован без изменений и проверен: https://arhangelsk-digitalday.ru. Архангельск добавлен отдельной карточкой с сайтом и QR, без выдуманной даты: он доступен в общей афише, поиске и фильтре города, но исключён из отбора по дню/месяцу и календаря до подтверждения даты. Кнопка экспорта календаря для него не показывается. Чтение сайта ожидает применения сетевого разрешения; подробности программы не перенесены.
 
 Сайт-источник кейсов и партнёров: https://sber-northwest-casebook.tenderlion1.chatgpt.site/#practice
 
